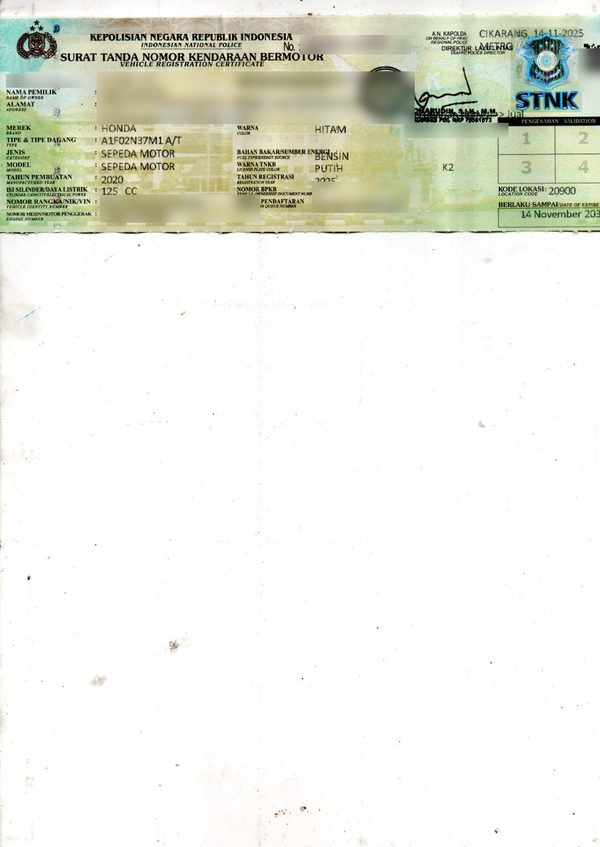
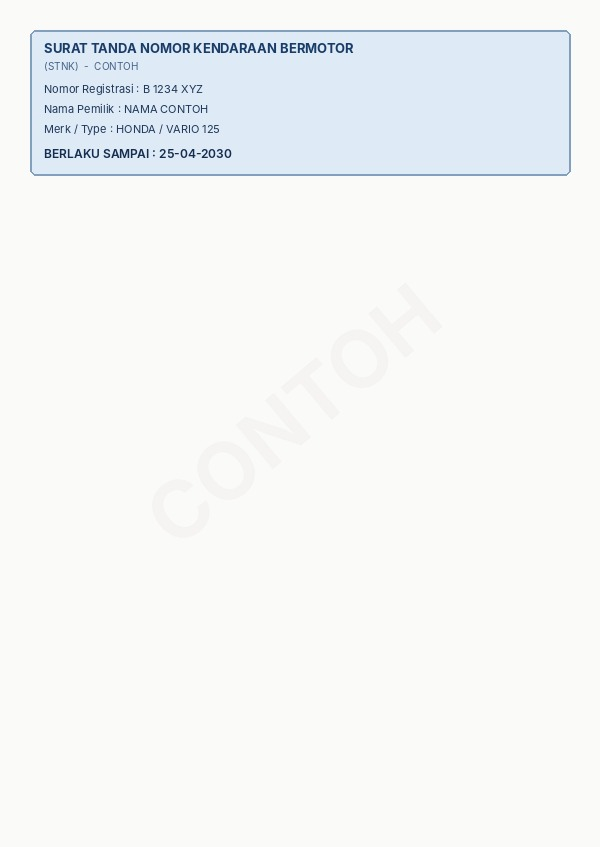
Riding: contoh foto SIM dan STNK diganti gambar contoh dengan data karangan
Claude-Session: https://claude.ai/code/session_01BMTzFAZ7KYXUWKJFUWWDBV

diff --git a/bst/riding/index.html b/bst/riding/index.html
@@ -396,14 +396,14 @@ stnk:`<svg viewBox="0 0 320 190" role="img" aria-label="Contoh foto STNK bagian 
 motor:`<svg viewBox="0 0 240 150" role="img" aria-label="Contoh foto motor dari depan menyamping"><rect width="240" height="150" fill="#eef5f3"/><rect y="124" width="240" height="26" fill="#dfe9e6"/><g fill="none" stroke="#12312b" stroke-width="5"><circle cx="58" cy="108" r="20"/><circle cx="178" cy="108" r="20"/></g><g fill="#12312b"><circle cx="58" cy="108" r="5"/><circle cx="178" cy="108" r="5"/></g><path d="M58 108L92 72h40l46 36" fill="none" stroke="#12312b" stroke-width="5" stroke-linejoin="round"/><path d="M88 74q22-22 52-10l16 20-66 4z" fill="#0b6b5b"/><rect x="66" y="66" width="44" height="9" rx="4.5" fill="#12312b"/><path d="M152 64l8-20 14-3M162 50l16 58" fill="none" stroke="#12312b" stroke-width="4" stroke-linecap="round"/><circle cx="164" cy="58" r="6" fill="#f2c94c" stroke="#12312b" stroke-width="1.5"/><path d="M176 92h12" stroke="#12312b" stroke-width="4" stroke-linecap="round"/><rect x="188" y="76" width="42" height="17" rx="2" fill="#fff" stroke="#12312b" stroke-width="1.5"/><text x="209" y="88" text-anchor="middle" font-size="6.2" font-weight="700" fill="#12312b" font-family="Arial">B 1234 XYZ</text><rect x="184" y="72" width="50" height="25" rx="4" fill="none" stroke="#f08c00" stroke-width="1.8" stroke-dasharray="4 3"/><text x="209" y="66" text-anchor="middle" font-size="7" font-weight="700" fill="#f08c00" font-family="Arial">plat terbaca</text></svg>`,
 mobil:`<svg viewBox="0 0 240 150" role="img" aria-label="Contoh foto mobil dari depan menyamping"><rect width="240" height="150" fill="#eef5f3"/><rect y="124" width="240" height="26" fill="#dfe9e6"/><path d="M26 104l4-20q2-8 14-10l30-4 20-22q6-6 28-6 28 0 40 22l28 6q14 4 14 18v14q0 4-4 4H30q-4 0-4-2z" fill="#0b6b5b"/><path d="M84 70l18-18h30v18zM138 52q20 0 30 18h-30z" fill="#d7ecf5"/><g fill="#12312b"><circle cx="68" cy="112" r="17"/><circle cx="184" cy="112" r="17"/></g><g fill="#cfd8d6"><circle cx="68" cy="112" r="7"/><circle cx="184" cy="112" r="7"/></g><rect x="214" y="76" width="8" height="7" rx="2" fill="#f2c94c" stroke="#12312b" stroke-width="1"/><rect x="196" y="88" width="40" height="16" rx="2" fill="#fff" stroke="#12312b" stroke-width="1.5"/><text x="216" y="99" text-anchor="middle" font-size="6" font-weight="700" fill="#12312b" font-family="Arial">B 1234 XYZ</text><rect x="192" y="84" width="48" height="24" rx="4" fill="none" stroke="#f08c00" stroke-width="1.8" stroke-dasharray="4 3"/><text x="216" y="120" text-anchor="middle" font-size="7" font-weight="700" fill="#f08c00" font-family="Arial">plat terbaca</text></svg>`,
 stnkOne:`<svg viewBox="0 0 320 190" role="img" aria-label="Contoh salah: hanya satu bagian STNK yang difoto"><rect width="320" height="190" fill="#f3f3f3"/><rect x="40" y="20" width="240" height="70" rx="4" fill="#fff" stroke="#c9d3ce"/><rect x="52" y="34" width="120" height="6" fill="#c9d3ce"/><rect x="52" y="48" width="170" height="6" fill="#dfe6e2"/><rect x="52" y="62" width="90" height="6" fill="#dfe6e2"/><text x="160" y="84" text-anchor="middle" font-size="11" font-weight="700" fill="#c0392b" font-family="Arial">Pajak</text><rect x="40" y="104" width="240" height="70" rx="4" fill="#e9eeec" stroke="#c9d3ce" stroke-dasharray="5 4"/><text x="160" y="143" text-anchor="middle" font-size="12" font-weight="700" fill="#c0392b" font-family="Arial">STNK tidak ikut difoto</text></svg>`,
-stnkBad:`<img src="assets/contoh-salah-stnk.jpg" alt="Contoh salah: hasil scan satu halaman penuh, hanya STNK tanpa Pajak" loading="lazy" style="width:100%;max-height:260px;object-fit:contain;border-radius:10px;background:#f3f3f3;display:block">`,
+stnkBad:`<img src="assets/contoh-salah-stnk.jpg?v=2" alt="Contoh salah: hasil scan satu halaman penuh, hanya STNK tanpa Pajak" loading="lazy" style="width:100%;max-height:260px;object-fit:contain;border-radius:10px;background:#f3f3f3;display:block">`,
 unitBadScreen:`<svg viewBox="0 0 240 150" role="img" aria-label="Contoh salah: memotret layar HP atau selfie"><rect width="240" height="150" fill="#e9e9e9"/><circle cx="168" cy="54" r="20" fill="#c9a58a"/><path d="M128 150q4-48 40-48t40 48z" fill="#5b6f69"/><rect x="40" y="22" width="78" height="128" rx="10" fill="#222"/><rect x="46" y="30" width="66" height="112" rx="5" fill="#fff"/><g fill="none" stroke="#12312b" stroke-width="3"><circle cx="58" cy="108" r="9"/><circle cx="100" cy="108" r="9"/></g><path d="M58 108l16-28h14l12 28M70 80l-6-4" stroke="#12312b" stroke-width="3" fill="none"/><circle cx="216" cy="20" r="11" fill="#d92d20"/><path d="M211.5 15.5l9 9M220.5 15.5l-9 9" stroke="#fff" stroke-width="2.4" stroke-linecap="round"/></svg>`,
 unitBadCrop:`<svg viewBox="0 0 240 150" role="img" aria-label="Contoh salah: kendaraan terpotong dan plat tidak terlihat"><rect width="240" height="150" fill="#eef5f3"/><rect y="124" width="240" height="26" fill="#dfe9e6"/><path d="M-20 104l10-34q4-10 24-12l50-4 30-28" fill="#0b6b5b"/><g fill="#12312b"><circle cx="30" cy="112" r="24"/></g><circle cx="30" cy="112" r="10" fill="#cfd8d6"/><path d="M60 80q40-6 60 14" stroke="#0b6b5b" stroke-width="10" fill="none"/><circle cx="216" cy="20" r="11" fill="#d92d20"/><path d="M211.5 15.5l9 9M220.5 15.5l-9 9" stroke="#fff" stroke-width="2.4" stroke-linecap="round"/><text x="170" y="100" text-anchor="middle" font-size="8" font-weight="700" fill="#b42318" font-family="Arial">plat tidak terlihat</text></svg>`};
 function photoGuide(kind,open=true){
  const li=a=>a.map(x=>`<li>${x}</li>`).join(''),no=a=>a.map(x=>`<li class="no">${x}</li>`).join('');
  const cfg={
-  sim:{t:'Foto SIM: tampak depan',ill:`<div style="grid-column:1/-1"><div><img class="pg-photo pg-wide" src="assets/contoh-sim.jpg" alt="Contoh foto SIM yang benar: tampak depan, seluruh kartu terlihat" loading="lazy"></div><div class="pg-cap">Contoh foto SIM yang benar</div></div>`,ul:li(['Foto bagian <b>depan</b> SIM, seluruh kartu masuk di foto','Nomor SIM dan masa berlaku terbaca jelas'])+no(['Buram, gelap, atau ada pantulan cahaya yang menutupi tulisan','Hanya sebagian kartu yang terlihat'])},
-  stnk:{t:'Foto STNK + Pajak: kedua bagian wajib ada',ill:`<div style="grid-column:1/-1"><div><img class="pg-photo pg-wide" src="assets/contoh-stnk.jpg" alt="Contoh foto STNK dan pajak yang benar" loading="lazy"></div><div class="pg-cap">Benar: bagian Pajak (atas) dan STNK (bawah) sama-sama terlihat</div></div>`,ul:li(['<b>Kedua bagian wajib ada dalam foto: (1) STNK dan (2) Pajak (SKPD)</b>. Jangan hanya salah satu','Bagian <b>STNK</b> menampilkan masa berlaku TNKB (5 tahunan); bagian <b>Pajak</b> menampilkan masa berlaku pajak','Tanggal terbaca jelas, kertas rata dan tidak terlipat','Foto/scan rapat ke tepi dokumen, tanpa halaman kosong'])+no(['Hanya STNK saja, atau hanya Pajak saja','Buram atau terpotong, tanggal tidak terlihat','Hasil scan satu halaman penuh dengan ruang kosong'])
+  sim:{t:'Foto SIM: tampak depan',ill:`<div style="grid-column:1/-1"><div><img class="pg-photo pg-wide" src="assets/contoh-sim.jpg?v=2" alt="Contoh foto SIM yang benar: tampak depan, seluruh kartu terlihat" loading="lazy"></div><div class="pg-cap">Contoh foto SIM yang benar</div></div>`,ul:li(['Foto bagian <b>depan</b> SIM, seluruh kartu masuk di foto','Nomor SIM dan masa berlaku terbaca jelas'])+no(['Buram, gelap, atau ada pantulan cahaya yang menutupi tulisan','Hanya sebagian kartu yang terlihat'])},
+  stnk:{t:'Foto STNK + Pajak: kedua bagian wajib ada',ill:`<div style="grid-column:1/-1"><div><img class="pg-photo pg-wide" src="assets/contoh-stnk.jpg?v=2" alt="Contoh foto STNK dan pajak yang benar" loading="lazy"></div><div class="pg-cap">Benar: bagian Pajak (atas) dan STNK (bawah) sama-sama terlihat</div></div>`,ul:li(['<b>Kedua bagian wajib ada dalam foto: (1) STNK dan (2) Pajak (SKPD)</b>. Jangan hanya salah satu','Bagian <b>STNK</b> menampilkan masa berlaku TNKB (5 tahunan); bagian <b>Pajak</b> menampilkan masa berlaku pajak','Tanggal terbaca jelas, kertas rata dan tidak terlipat','Foto/scan rapat ke tepi dokumen, tanpa halaman kosong'])+no(['Hanya STNK saja, atau hanya Pajak saja','Buram atau terpotong, tanggal tidak terlihat','Hasil scan satu halaman penuh dengan ruang kosong'])
   ,bad:[[`<div style="display:grid;grid-template-columns:1fr 1fr;gap:8px"><img src="assets/salah-stnk.jpg" alt="Salah: hanya STNK tanpa pajak" loading="lazy" style="width:100%;height:auto;max-height:240px;object-fit:contain;border-radius:10px;display:block;margin:0 auto"><img src="assets/salah-pajak.jpg" alt="Salah: hanya pajak tanpa STNK" loading="lazy" style="width:100%;height:auto;max-height:240px;object-fit:contain;border-radius:10px;display:block;margin:0 auto"></div>`,'Salah: foto hanya STNK (tanpa Pajak) atau hanya Pajak (tanpa STNK). Harus lengkap dalam satu foto, rapi dan jelas'],[ILLU.stnkBad,'Salah: scan satu halaman penuh, tulisan jadi kecil']]},
   unit:{t:'Foto kendaraan: tampak depan menyamping',ill:`<div><div><img class="pg-photo" src="assets/contoh-motor.jpg" alt="Contoh foto motor yang benar: depan menyamping, plat terlihat" loading="lazy"></div><div class="pg-cap">Contoh foto motor yang benar</div></div><div><div><img class="pg-photo" src="assets/contoh-mobil.jpg" alt="Contoh foto mobil yang benar: depan menyamping, plat terlihat" loading="lazy"></div><div class="pg-cap">Contoh foto mobil yang benar</div></div>`,ul:li(['Ambil dari <b>depan menyamping (serong depan)</b> sehingga <b>plat nomor terbaca</b> dan <b>body samping</b> kendaraan terlihat','Seluruh kendaraan masuk di foto, dari roda depan sampai roda belakang'])+no(['Plat nomor tidak terlihat atau terlalu kecil untuk dibaca','Kendaraan terpotong atau tertutup orang/benda lain','Foto layar HP, gambar dari internet, atau selfie'])
   ,bad:[[`<img src="assets/salah-hp.jpg" alt="Salah: memotret layar HP" loading="lazy" style="width:100%;height:auto;max-height:240px;object-fit:contain;border-radius:10px;display:block;margin:0 auto">`,'Salah: memotret layar HP / selfie'],[`<div style="display:grid;grid-template-columns:1fr 1fr;gap:8px"><img src="assets/salah-motor.jpg" alt="Salah: motor terpotong" loading="lazy" style="width:100%;height:auto;max-height:240px;object-fit:contain;border-radius:10px;display:block;margin:0 auto"><img src="assets/salah-mobil.jpg" alt="Salah: mobil terpotong" loading="lazy" style="width:100%;height:auto;max-height:240px;object-fit:contain;border-radius:10px;display:block;margin:0 auto"></div>`,'Salah: plat tidak terlihat, kendaraan terpotong']]}
